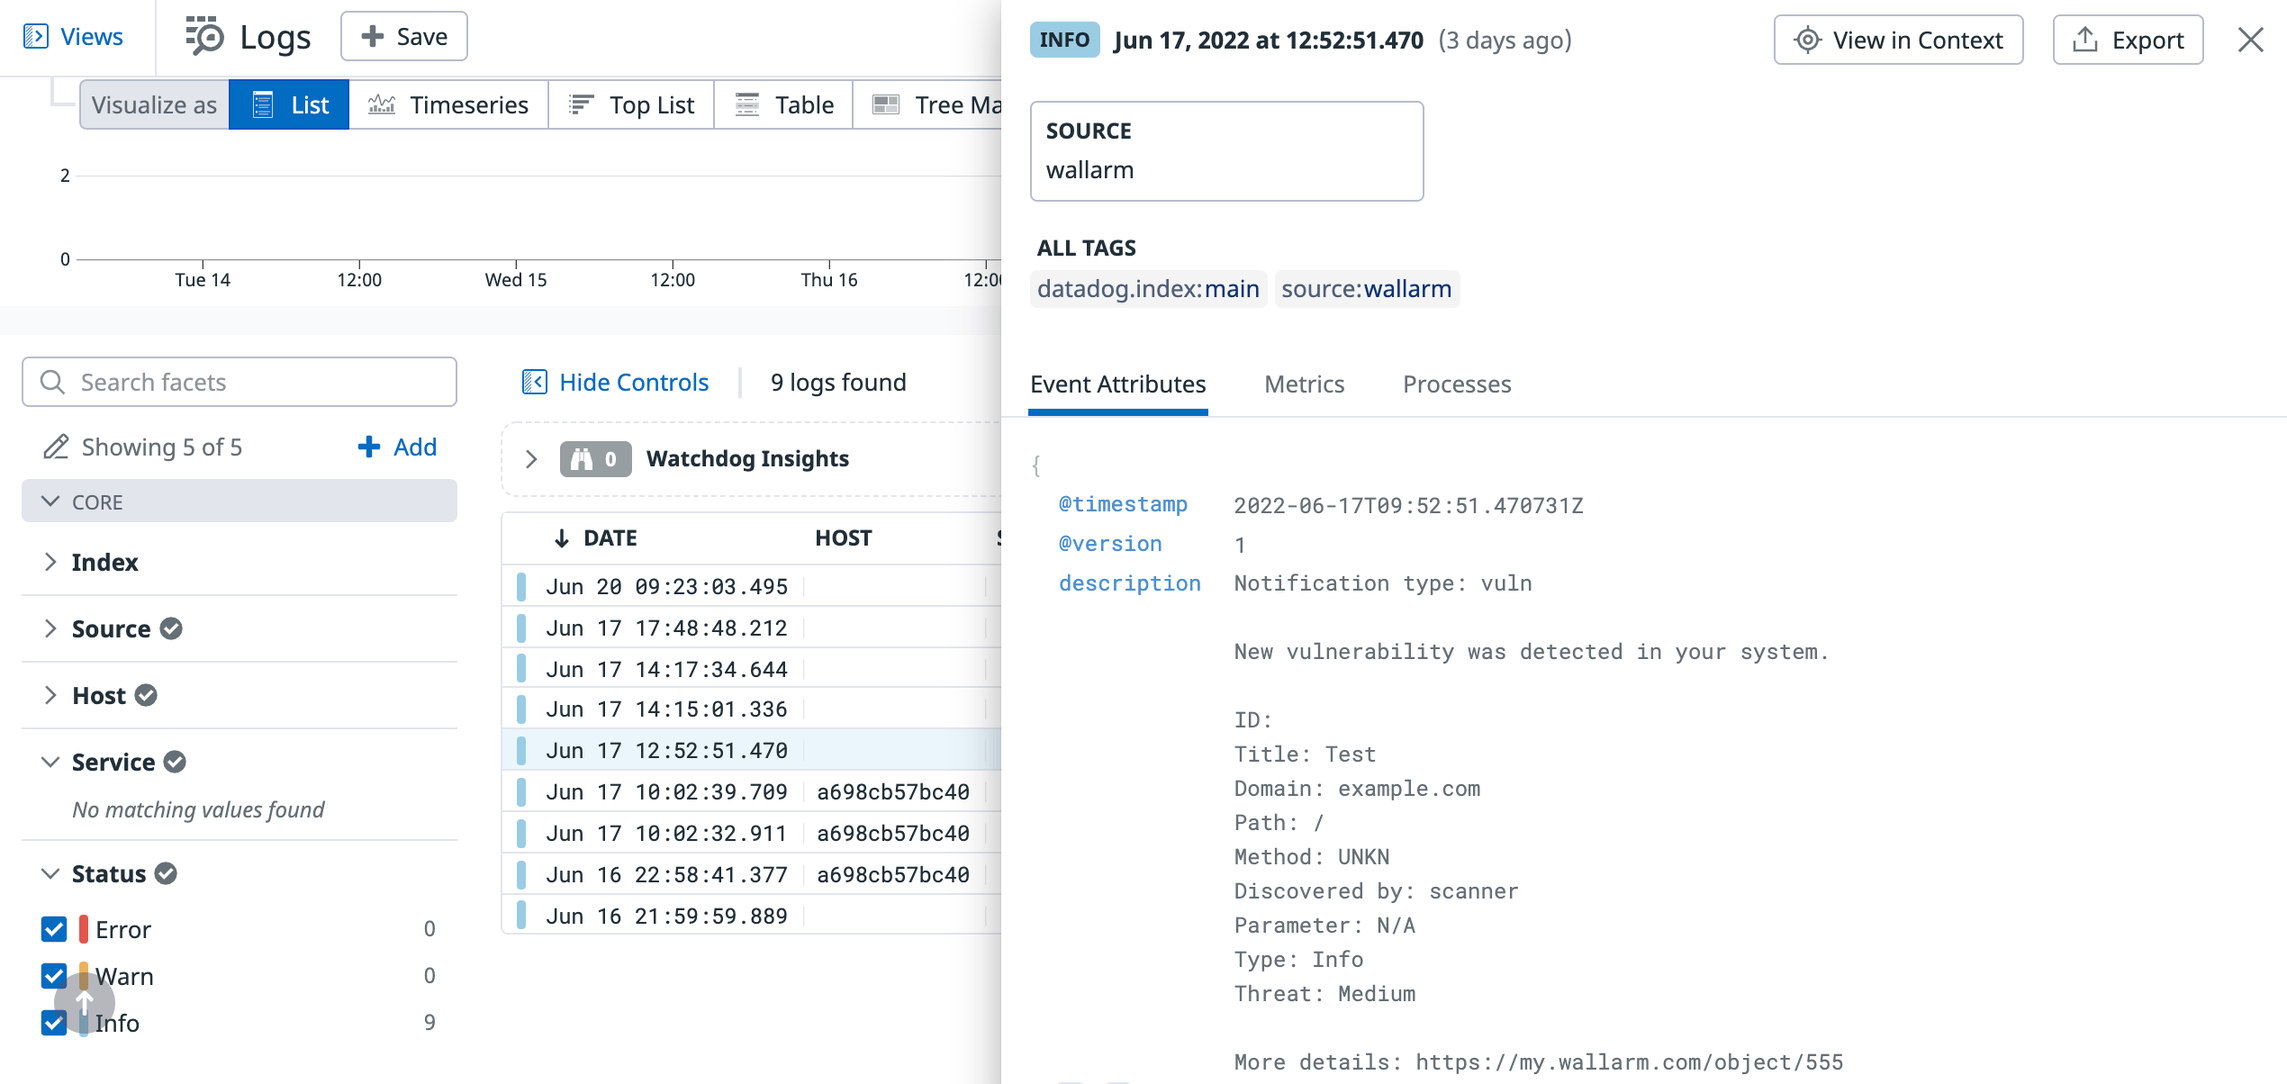
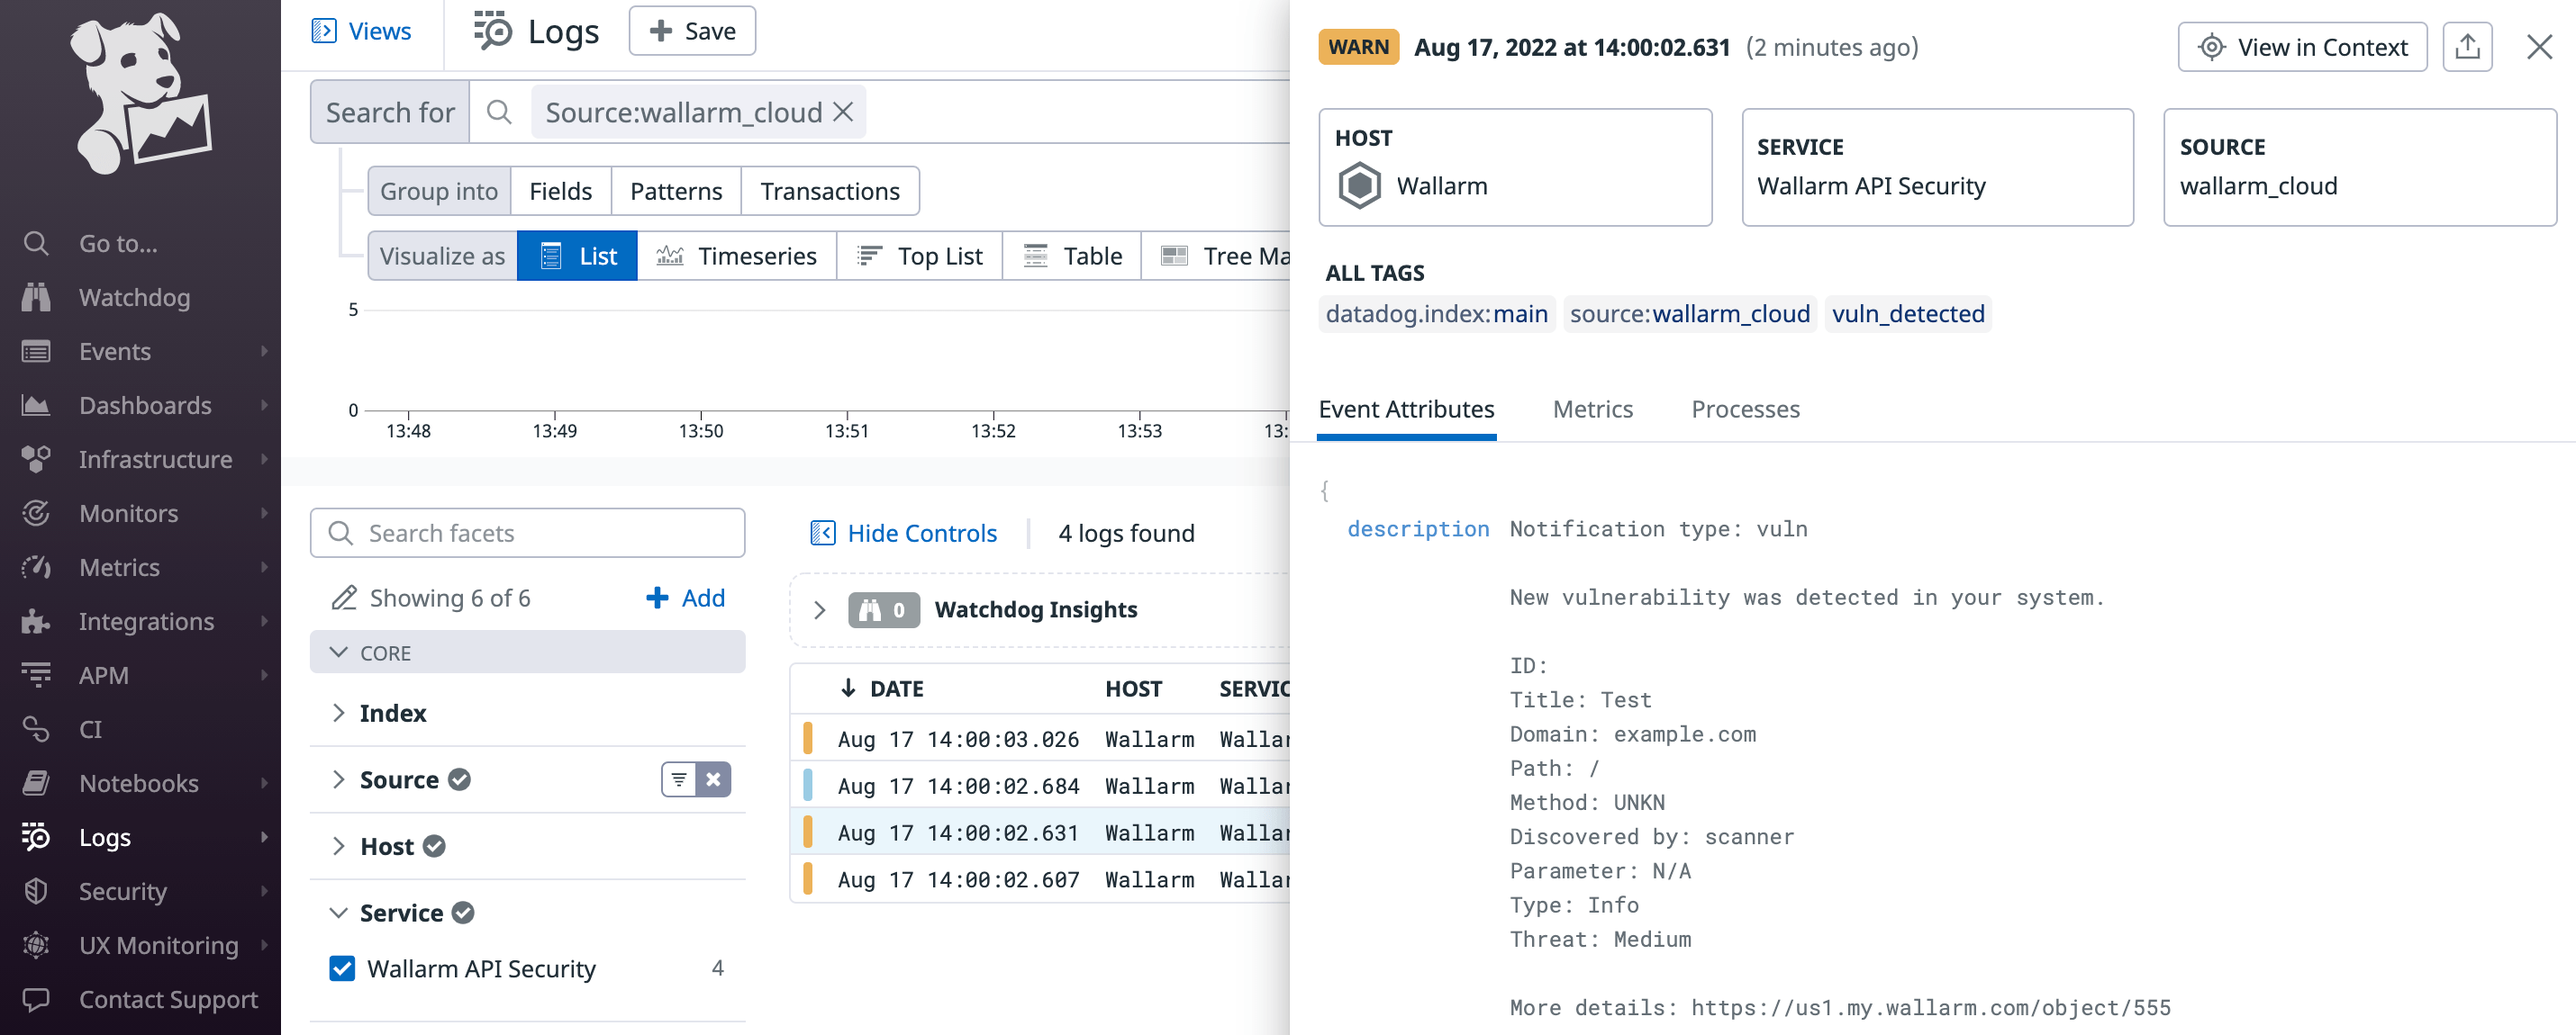
DOCS-1705 small fixes after review

diff --git a/docs/latest/user-guides/settings/integrations/datadog.md b/docs/latest/user-guides/settings/integrations/datadog.md
@@ -27,6 +27,8 @@ The test Datadog log:
 
 ![!The test Datadog log](../../../images/user-guides/settings/integrations/test-datadog-vuln-detected.png)
 
+To find the Wallarm logs among other records, you can use the `source:wallarm_cloud` search tag in Datadog.
+
 ## Updating integration
 
 --8<-- "../include/integrations/update-integration.md"

diff --git a/docs/latest/user-guides/settings/integrations/webhook-examples/fluentd-logstash-datadog.md b/docs/latest/user-guides/settings/integrations/webhook-examples/fluentd-logstash-datadog.md
@@ -171,3 +171,5 @@ The test log in the Fluentd or Logstash intermediate data collector:
 The test Datadog log:
 
 ![!The test Datadog log](../../../../images/user-guides/settings/integrations/test-datadog-vuln-detected.png)
+
+To find the Wallarm logs among other records, you can use the `source:wallarm_cloud` search tag in Datadog.
